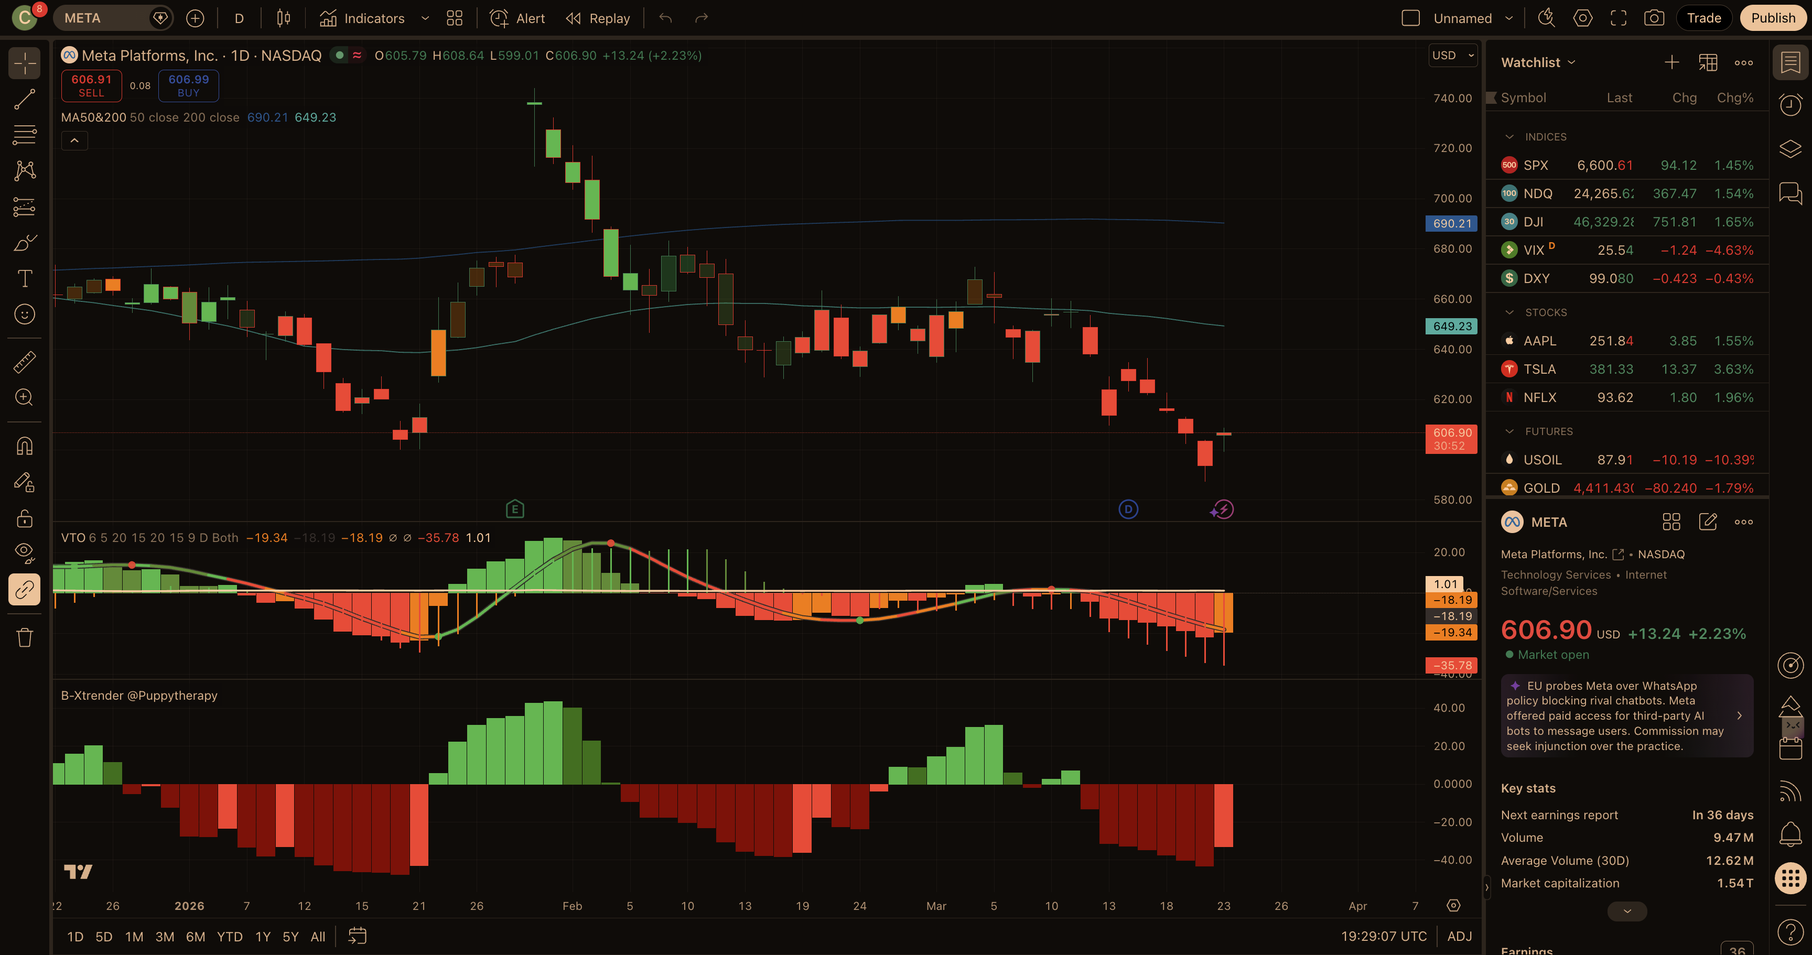
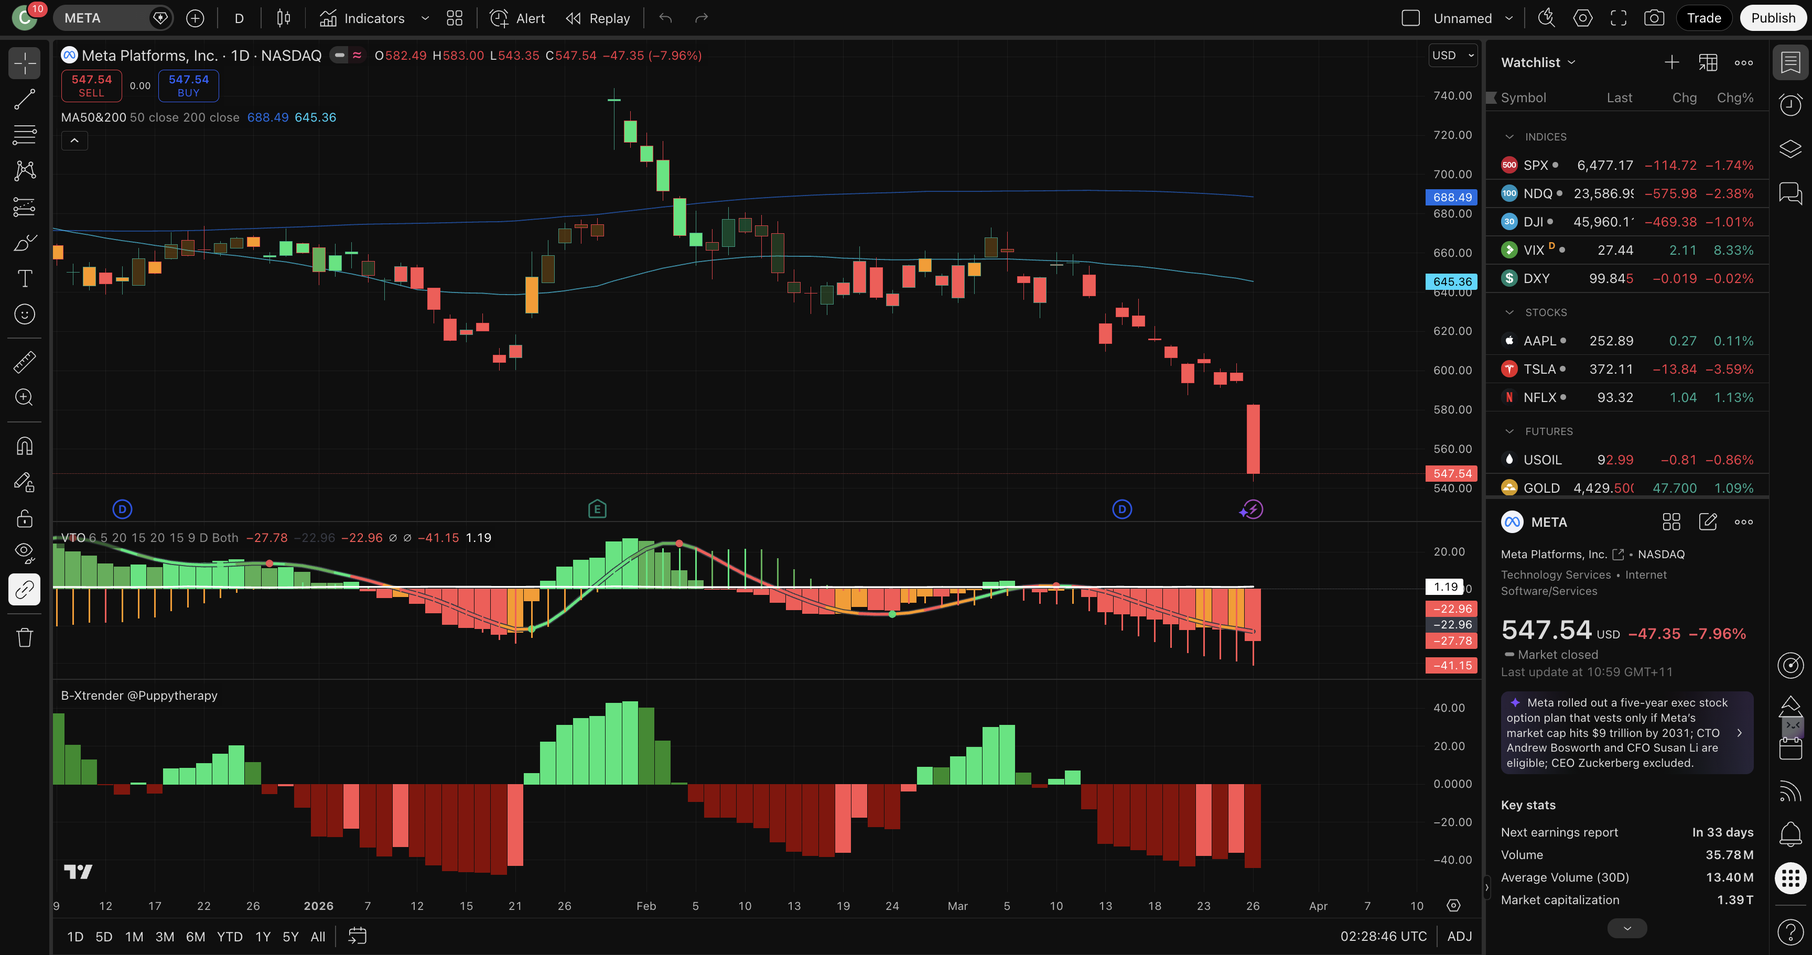
27 mar

diff --git a/strategies/bearish-call-spread/report.md b/strategies/bearish-call-spread/report.md
@@ -1,195 +1,176 @@
 # Bearish Call Spread — Current Report
-_Last updated: 2026-03-24_
+_Last updated: 2026-03-27_
 
 ---
 
 ## Market Context
 
-The S&P 500 (SPY ~$657.6) is effectively **on** its 200-day moving average (~$656.9) and **below** the 50-day (~$681.5)—a choppy repair phase rather than a clean bull trend. **VIX ~25.4** is just inside the “elevated” band (~25), which helps credit pricing but also warns that gap-and-go rallies can still occur. For bear call spreads, that combination argues for **conservative short strikes** (ideally at/above obvious MA/supply ceilings) and verification that momentum indicators are not mid-bounce.
-
----
-
-## Scan & Triage (this run)
-
-**Source:** User watchlist / scan image (21 symbols). **Live prices & MAs** for triage and scoring were pulled via Yahoo Finance (unofficial) as of this run; watchlist prints in the screenshot may differ slightly.
-
-**Universe (from image):** PM, WFC, GE, TSLA, AVGO, GOOG, GILD, ADBE, SBUX, TXN, META, NOW, AAPL, HOOD, BMY, V, NVDA, KO, CRM, AMZN, RTX.
-
-**Triage cuts (abbreviated):**
-
-- **GOOG, GILD, BMY, RTX, KO, SBUX, AAPL** — spot still **above** the 200-day MA in Yahoo history, which weakens Category A “broader downtrend” quality versus names trading under both major MAs.
-- **AVGO** — price essentially **pinned** to the 200-day; chop risk versus cleaner “below both MAs” software breakdowns.
-- **PM, GE, TXN** — **flat to slightly above** the 200-day; workable but deprioritized vs. deeper large-cap tech/media breakdowns.
-- **WFC, HOOD, TSLA, V, NVDA, AMZN, CRM** — retained for scoring funnel; **CRM** reached the numeric top tier but **failed full TradingView bearish alignment** (see below), so **META** was substituted as the third final pick.
+The S&P 500 (via SPY) closed **below its 200-day moving average** (~−1.9% vs. the 200-day), with price also under the 50-day — consistent with a **corrective / risk-off** tape rather than a clean bull trend. **VIX** was near **27.4**, i.e. **elevated** versus long-run norms (~25+), which supports richer option premium for credit spreads but also warns of gap risk. For **bear call spreads**, this mix is **more favourable than a low-VIX melt-up**: the index is not making persistent highs above the 200-day, so “everything rips” tail risk is somewhat reduced — but single-name gap risk remains, especially in mega-cap tech after large down days.
 
 ---
 
 ## Today's Top Picks
 
-### 1. META — Mega-cap breakdown; regulatory headline overhang
+### 1. UNH — Managed-care repricing; layered MA ceiling
 
-```
-Ticker: META
-Current Price: $606.49
-Sector: Communication Services / Internet Content
-Score: 70/100 (A:38 B:15 C:2 D:15 Ded:0)
+**Ticker:** UNH  
+**Current Price:** $268.05  
+**Sector:** Healthcare / Healthcare Plans  
+**Score:** 91/100 (A:37 B:25 C:14 D:15 Ded:0)
 
-Setup Summary:
-Meta has rolled over into a clear sub–50-day / sub–200-day posture after the peak-to-trough unwind from ~$740s. That layers a practical overhead “staircase” through the high-$600s into $700, which is attractive for a defined-risk call spread that stays above the nearest moving-average supply.
+**Setup Summary:**  
+UnitedHealth remains in a structural bearish sequence: first projected annual revenue contraction, elevated medical-care ratio, and ongoing headline risk (Medicare Advantage policy, DOJ scrutiny). Price is compressed under a **death cross** with the **50-day (~$294)** and **200-day (~$314)** forming a **layered ceiling**; a **$330** short call sits above both and matches a conservative “recovery fails before here” zone for a monthly credit spread.
 
-Entry Zone: $606.49
-Stop Loss: N/A (spread: max loss if spot sustains above short strike + net credit)
-Target 1: N/A | Target 2: N/A
-Risk/Reward: Credit spread — max risk = width − net credit (verify in chain)
+**Resistance Level:** **~$294–315** — 50-day and 200-day stack plus prior supply from the breakdown.
 
-Resistance Level: $649–$689 — declining 50-day (~$649) into the prior 200-day / supply zone (~$689)
+**Suggested Spread:**  
+- **Short Call Strike:** **$330** (~≤0.20 delta target — confirm in platform) — above layered MAs / policy-capped recovery path  
+- **Long Call Strike:** **$350** — ~6% wide  
+- **Target Expiry:** **May 15, 2026** (~49 DTE)  
+- **Est. Probability of Profit:** **~84%** (delta/IV proxy — verify in platform)
 
-Suggested Spread:
-  Short Call Strike: $700 (~0.15–0.22 delta — confirm) — above layered overhead into $700 supply
-  Long Call Strike:  $720 — $20-wide
-  Target Expiry:     17 Apr 2026 (~24 DTE)
-  Est. Probability of Profit: ~82% (delta proxy; confirm on platform)
+**Short Strike Level (Stop Reference):** **$330** — breach implies trade thesis failed (price recovered through major overhead).
 
-Short Strike Level (Stop Reference): $700 — 14-day outcome = spot vs this strike
+**Key Risks:**  
+- CMS / Medicare Advantage headline spikes  
+- Short-covering rallies from depressed levels  
+- Consensus price targets still well above spot (institutional dip-buying)
 
-Key Risks:
-- Mega-cap index risk-on days can produce violent cover rallies
-- Regulatory headlines (e.g., EU/WhatsApp scrutiny) can move the tape both directions
-- Still a high-quality business — this is primarily a trend + positioning trade
+**Fundamental Note:**  
+Guidance reflects a challenged margin path; investigations and sector-wide reimbursement uncertainty continue to cap the recovery narrative.
 
-Fundamental Note:
-Profitability remains strong; the bearish edge is technical (broken intermediate trend) plus headline/regulatory friction rather than balance-sheet distress.
-```
+**TradingView (NYSE:UNH):** VTO **sell / bearish momentum** on latest bars (red). B-Xtrender **bearish** (red histogram pressure). Screenshot: `assets/tradingview-UNH.png`. Chart confirm: **full**.
 
-**TradingView** (layout `z25AhAlV`, 1D, NASDAQ:META): VTO **bearish / sub-zero regime** on latest bars. B-Xtrender **bearish** (red below zero). Screenshot: `assets/tradingview-META.png`. **Chart confirm: full.**
-
-![TradingView — META — VTO + B-Xtrender](assets/tradingview-META.png)
+![UNH TradingView](assets/tradingview-UNH.png)
 
 ---
 
-### 2. ADBE — Premium reset; declining 50/200-day ceiling
+### 2. ORCL — AI-datacenter unwind; 50-day + pivot as first supply
 
-```
-Ticker: ADBE
-Current Price: $247.81
-Sector: Technology / Software — Application
-Score: 69/100 (A:38 B:15 C:6 D:15 Ded:-5)
+**Ticker:** ORCL  
+**Current Price:** $142.81  
+**Sector:** Technology / Software — Infrastructure  
+**Score:** 87/100 (A:38 B:25 C:9 D:15 Ded:0)
 
-Setup Summary:
-Adobe remains trapped under a falling 50-day (~$276) and a much higher 200-day (~$335), with a practical supply shelf into the high-$260s / $280 zone before a durable recovery is credible. That makes a short call near/above $285 a structurally intuitive ceiling for a monthly credit spread.
+**Setup Summary:**  
+Oracle is working through a **post-AI-datacenter euphoria unwind**: spot is **well below** the **200-day (~$220)** with the **declining 50-day (~$162)** and a **$170–172** pivot band as the **first meaningful supply** before higher strikes. That lines up with a **$175** short call that stays **above** visible resistance for a May monthly bear call spread.
 
-Entry Zone: $247.81
-Stop Loss: N/A (spread)
-Target 1: N/A | Target 2: N/A
-Risk/Reward: Credit spread — verify net credit vs. $15 width
+**Resistance Level:** **~$162–175** — 50-day MA plus recent pivot / supply shelf.
 
-Resistance Level: $265–$285 — local swing supply into the declining 50-day / March shelf
+**Suggested Spread:**  
+- **Short Call Strike:** **$175** (~≤0.20 delta target — confirm) — at/above first supply  
+- **Long Call Strike:** **$190** — ~8.6% wide  
+- **Target Expiry:** **May 15, 2026** (~49 DTE)  
+- **Est. Probability of Profit:** **~85%** (verify)
 
-Suggested Spread:
-  Short Call Strike: $285 (~0.18–0.22 delta — confirm)
-  Long Call Strike:  $300 — $15-wide
-  Target Expiry:     17 Apr 2026 (~24 DTE)
-  Est. Probability of Profit: ~80–83% (proxy)
+**Short Strike Level (Stop Reference):** **$175** — sustained trade above invalidates “failed bounce into supply” thesis.
 
-Short Strike Level (Stop Reference): $285
+**Key Risks:**  
+- Hyperscaler capex headlines reigniting AI-beta  
+- Large cloud backlog can stabilise sentiment  
+- Rich IV can expand sharply on upside gaps
 
-Key Risks:
-- Bounces into the declining 50-day are common in high-quality software
-- Product / AI cadence can restore narrative momentum quickly
-- Year-low zone (~$241) is nearby — bounce volatility risk (reflected in the score deduction)
+**Fundamental Note:**  
+Growth concerns are more narrative/multiple-driven than an imminent solvency issue — bear thesis is primarily **trend + resistance**, not distress.
 
-Fundamental Note:
-Cash generation remains solid, but growth has cooled and sentiment is still normalizing after the abandoned Figma deal and a slower expansion path.
-```
+**TradingView (NYSE:ORCL):** VTO **bearish / negative momentum** on latest bars. B-Xtrender **bearish** (red histogram). Screenshot: `assets/tradingview-ORCL.png`. Chart confirm: **full**.
 
-**TradingView** (NASDAQ:ADBE): VTO **bearish / negative regime**; B-Xtrender **bearish** (deep red below zero on latest bars). Screenshot: `assets/tradingview-ADBE.png`. **Chart confirm: full.**
-
-![TradingView — ADBE — VTO + B-Xtrender](assets/tradingview-ADBE.png)
+![ORCL TradingView](assets/tradingview-ORCL.png)
 
 ---
 
-### 3. NOW — Large-cap SaaS breakdown; 50-day + pivot band ceiling
+### 3. META — Gap-down through major MAs; overhead into $650–700
 
-```
-Ticker: NOW
-Current Price: $111.21
-Sector: Technology / Software — Application
-Score: 64/100 (A:37 B:15 C:0 D:12 Ded:0)
+**Ticker:** META  
+**Current Price:** $547.54  
+**Sector:** Communication Services / Internet Content  
+**Score:** 80/100 (A:38 B:25 C:3 D:14 Ded:0)
 
-Setup Summary:
-ServiceNow is a quality franchise (limits fundamental bearish points), but technically it is a clean large-cap SaaS breakdown: the first meaningful supply sits near the **50-day (~$116)** and the **$120–$126** pivot / bounce-failure band. A bear call spread can lean on that ceiling while keeping risk defined.
+**Setup Summary:**  
+Meta shows a **violent gap-down** through the **50-day (~$647)** and **200-day (~$645)** with volume confirmation — classic **trend failure** signature for a **bear call** structured **above** the gap and supply zone. A **$700** short strike clears the **$650** zone (50-day neighbourhood) and targets **low-delta** positioning for a May expiry.
 
-Entry Zone: $111.21
-Stop Loss: N/A (spread)
-Target 1: N/A | Target 2: N/A
-Risk/Reward: Credit spread — verify net credit vs. $12 width
+**Resistance Level:** **~$645–700** — broken 200/50-day region and upper supply into round-number.
 
-Resistance Level: $116–$126 — 50-day MA + January pivot / failed bounce band
+**Suggested Spread:**  
+- **Short Call Strike:** **$700** (~≤0.20 delta target — confirm) — above major broken MAs  
+- **Long Call Strike:** **$730** — ~4.3% wide  
+- **Target Expiry:** **May 15, 2026** (~49 DTE)  
+- **Est. Probability of Profit:** **~82%** (verify)
 
-Suggested Spread:
-  Short Call Strike: $128 (~0.18–0.24 delta — confirm)
-  Long Call Strike:  $140 — $12-wide
-  Target Expiry:     17 Apr 2026 (~24 DTE)
-  Est. Probability of Profit: ~84–86% (proxy)
+**Short Strike Level (Stop Reference):** **$700** — sustained strength above this zone implies the gap-down is being repaired.
 
-Short Strike Level (Stop Reference): $128
+**Key Risks:**  
+- Mega-cap **index risk-on** sessions can lift all names  
+- Regulatory headlines can move the name both ways  
+- Still profitable — **quality floor** can attract long-term buyers on dips
 
-Key Risks:
-- Broad software / AI-beta rallies can lift the group
-- Enterprise renewals and deal cadence can stabilize sentiment
-- Compressed multiples can mean faster snapbacks if rates fall
-```
+**Fundamental Note:**  
+Profitability remains strong; the trade thesis is **price trend + overhead supply**, not a broken business model.
 
-**TradingView** (NYSE:NOW): B-Xtrender **bearish flip** (red on the latest bar / sub-zero). VTO pane still shows **mixed momentum** (fading green / not a clean isolated red sell dot on the right edge). Screenshot: `assets/tradingview-NOW.png`. **Chart confirm: partial** (B-Xtrender yes; VTO not a clean sell-dot confirmation).
+**TradingView (NASDAQ:META):** VTO **bearish momentum** (negative / red). B-Xtrender **bearish** (red histogram). Screenshot: `assets/tradingview-META.png`. Chart confirm: **full**.
 
-![TradingView — NOW — VTO + B-Xtrender](assets/tradingview-NOW.png)
+![META TradingView](assets/tradingview-META.png)
+
+---
+
+## Triage (quick screen)
+
+**Cut / deprioritised (examples):** **MU** — extreme strength vs 200-day (momentum leader; poor fit for “fade the recovery”); **AAPL, KO, PEP, WMT, GILD, NEM, RTX, SBUX** — trading at or **above** the 200-day (recovery skew vs bearish credit); **NVDA, TSLA** — headline/gamma tail risk for short-dated calls. **QCOM** scored well on fundamentals, but **TradingView B-Xtrender** showed **bullish** (green) territory on the **latest bar** — **substituted by META** to reach **three fully chart-confirmed** names.
 
 ---
 
 ## Open Trades
+
 _Recommendations from the last 14 days with no outcome recorded yet._
 
 | Date | Ticker | Entry Price | Short Strike | Setup Summary |
 |---|---|---|---|---|
-| 2026-03-17 | UNH | $285.78 | $300 – 50-day MA (~$299.50) / death cross ceiling… | Short $300/$315 call spread \| Apr 2026 (~31 DTE) \| ~85% PoP \| Death cross confirmed; first projected annual revenue cont… |
-| 2026-03-17 | JPM | $286.26 | $310 – 50-day MA (~$312) / broken 200-day MA ($297.55) resis… | Short $310/$325 call spread \| Apr 2026 (~31 DTE) \| ~81% PoP \| Broken below 200-day MA ($297.55) — now resistance; 50-day… |
-| 2026-03-17 | BA | $213.88 | $240 – 50-day MA ($240.20) / prior supply zone from February… | Short $240/$255 call spread \| Apr 2026 (~31 DTE) \| ~87% PoP \| Below both 50-day ($240.20) and 200-day ($219.90) MAs; MFI… |
-| 2026-03-19 | UNH | $283.70 | $330 – above 200-day MA ($314.48) / prior breakdown ceiling… | Short $330/$345 call spread \| Apr 2026 (~36 DTE) \| ~83% PoP \| Managed-care margin pressure, DOJ scrutiny, and a layered … |
-| 2026-03-19 | TSLA | $393.22 | $450 – above 50-day MA ($417.61) / failed-bounce supply zone… | Short $450/$475 call spread \| Apr 2026 (~36 DTE) \| ~82% PoP \| Delivery-growth expectations keep getting cut, IV remains … |
-| 2026-03-19 | CVS | $73.07 | $83 – above 50-day MA ($77.91) / recent 60-day high zone… | Short $83/$90 call spread \| Apr 2026 (~36 DTE) \| ~77% PoP \| Medicare Advantage rate pressure keeps the sector under stre… |
-| 2026-03-21 | ADBE | $248.15 | $285 – above 50-day MA (~$276) / March supply shelf… | Short $285/$300 call spread \| Apr 2026 (~30 DTE) \| ~82% PoP \| Post-Figma trade narrative still caps multiples; price tra… |
-| 2026-03-21 | ORCL | $149.68 | $175 – below 200-day MA (~$220) / pre-breakdown pivot zone… | Short $175/$190 call spread \| Apr 2026 (~30 DTE) \| ~84% PoP \| AI-datacenter euphoria unwind leaves ORCL below both major… |
-| 2026-03-21 | NOW | $110.38 | $125 – 50-day MA (~$116) + recent bounce failure zone… | Short $125/$135 call spread \| Apr 2026 (~30 DTE) \| ~86% PoP \| Workflow automation demand is fine, but the chart is a cle… |
-| 2026-03-23 | ORCL | $149.68 | $175 – 50-day MA (~$162) / $170–172 pivot below 200-day (~$2… | Short $175/$190 call spread \| Apr 17 2026 (~25 DTE) \| ~82–84% PoP est \| Price ~32% below 200-day; first durable supply i… |
-| 2026-03-23 | ADBE | $248.15 | $285 – 50-day MA (~$277) / March supply shelf into $275–$290… | Short $285/$300 call spread \| Apr 17 2026 (~25 DTE) \| ~80–83% PoP est \| Trapped under falling 50/200-day MAs; nearest ha… |
-| 2026-03-23 | NOW | $110.38 | $128 – above 50-day MA (~$117) / $120–126 January pivot band… | Short $128/$140 call spread \| Apr 17 2026 (~25 DTE) \| ~84–86% PoP est \| Large-cap SaaS breakdown: lower highs with first… |
-| 2026-03-24 | META | $606.49 | $700 – above 50-day MA (~$649) / supply into prior 200-day z… | Short $700/$720 call spread \| Apr 17 2026 (~24 DTE) \| ~82% PoP est \| Well below declining 50- and 200-day MAs; layered o… |
-| 2026-03-24 | ADBE | $247.81 | $285 – 50-day MA (~$276) / March supply shelf into high-$260… | Short $285/$300 call spread \| Apr 17 2026 (~24 DTE) \| ~80–83% PoP est \| Trapped under falling 50/200-day MAs; Apr17 285c… |
-| 2026-03-24 | NOW | $111.21 | $128 – above 50-day MA (~$116) / $120–126 January pivot band… | Short $128/$140 call spread \| Apr 17 2026 (~24 DTE) \| ~84–86% PoP est \| Large-cap SaaS breakdown: first durable supply a… |
+| 2026-03-17 | UNH | $285.78 | $300 – 50-day MA (~$299.50) / death cross ceiling | Short $300/$315 call spread / Apr 2026 (~31 DTE) / ~85% PoP / Death cross confirmed; first projected annual revenue cont… |
+| 2026-03-17 | JPM | $286.26 | $310 – 50-day MA (~$312) / broken 200-day MA ($297.55) resistance cluster | Short $310/$325 call spread / Apr 2026 (~31 DTE) / ~81% PoP / Broken below 200-day MA ($297.55) — now resistance; 50-day… |
+| 2026-03-17 | BA | $213.88 | $240 – 50-day MA ($240.20) / prior supply zone from February breakdown | Short $240/$255 call spread / Apr 2026 (~31 DTE) / ~87% PoP / Below both 50-day ($240.20) and 200-day ($219.90) MAs; MFI… |
+| 2026-03-19 | UNH | $283.70 | $330 – above 200-day MA ($314.48) / prior breakdown ceiling | Short $330/$345 call spread / Apr 2026 (~36 DTE) / ~83% PoP / Managed-care margin pressure, DOJ scrutiny, and a layered … |
+| 2026-03-19 | TSLA | $393.22 | $450 – above 50-day MA ($417.61) / failed-bounce supply zone | Short $450/$475 call spread / Apr 2026 (~36 DTE) / ~82% PoP / Delivery-growth expectations keep getting cut, IV remains … |
+| 2026-03-19 | CVS | $73.07 | $83 – above 50-day MA ($77.91) / recent 60-day high zone | Short $83/$90 call spread / Apr 2026 (~36 DTE) / ~77% PoP / Medicare Advantage rate pressure keeps the sector under stre… |
+| 2026-03-21 | ADBE | $248.15 | $285 – above 50-day MA (~$276) / March supply shelf | Short $285/$300 call spread / Apr 2026 (~30 DTE) / ~82% PoP / Post-Figma trade narrative still caps multiples; price tra… |
+| 2026-03-21 | ORCL | $149.68 | $175 – below 200-day MA (~$220) / pre-breakdown pivot zone | Short $175/$190 call spread / Apr 2026 (~30 DTE) / ~84% PoP / AI-datacenter euphoria unwind leaves ORCL below both major… |
+| 2026-03-21 | NOW | $110.38 | $125 – 50-day MA (~$116) + recent bounce failure zone | Short $125/$135 call spread / Apr 2026 (~30 DTE) / ~86% PoP / Workflow automation demand is fine, but the chart is a cle… |
+| 2026-03-23 | ORCL | $149.68 | $175 – 50-day MA (~$162) / $170–172 pivot below 200-day (~$219) | Short $175/$190 call spread / Apr 17 2026 (~25 DTE) / ~82–84% PoP est / Price ~32% below 200-day; first durable supply i… |
+| 2026-03-23 | ADBE | $248.15 | $285 – 50-day MA (~$277) / March supply shelf into $275–$290 | Short $285/$300 call spread / Apr 17 2026 (~25 DTE) / ~80–83% PoP est / Trapped under falling 50/200-day MAs; nearest ha… |
+| 2026-03-23 | NOW | $110.38 | $128 – above 50-day MA (~$117) / $120–126 January pivot band | Short $128/$140 call spread / Apr 17 2026 (~25 DTE) / ~84–86% PoP est / Large-cap SaaS breakdown: lower highs with first… |
+| 2026-03-24 | META | $606.49 | $700 – above 50-day MA (~$649) / supply into prior 200-day zone (~$689) | Short $700/$720 call spread / Apr 17 2026 (~24 DTE) / ~82% PoP est / Well below declining 50- and 200-day MAs; layered o… |
+| 2026-03-24 | ADBE | $247.81 | $285 – 50-day MA (~$276) / March supply shelf into high-$260s–$280 | Short $285/$300 call spread / Apr 17 2026 (~24 DTE) / ~80–83% PoP est / Trapped under falling 50/200-day MAs; Apr17 285c… |
+| 2026-03-24 | NOW | $111.21 | $128 – above 50-day MA (~$116) / $120–126 January pivot band | Short $128/$140 call spread / Apr 17 2026 (~24 DTE) / ~84–86% PoP est / Large-cap SaaS breakdown: first durable supply a… |
+| 2026-03-27 | UNH | $268.05 | $330 – above 200-day MA (~$314) / 50-day ceiling (~$294) | Short $330/$350 call spread / May 15 2026 (~49 DTE) / ~84% PoP est / Death cross; layered MA ceiling; Medicare/DOJ headl… |
+| 2026-03-27 | ORCL | $142.81 | $175 – 50-day MA (~$162) / $170–172 pivot below 200-day (~$220) | Short $175/$190 call spread / May 15 2026 (~49 DTE) / ~85% PoP est / Post-AI-datacenter unwind; first durable supply at … |
+| 2026-03-27 | META | $547.54 | $700 – above 50-day MA (~$647) / gap & supply into $600–680 zone | Short $700/$730 call spread / May 15 2026 (~49 DTE) / ~82% PoP est / Large gap-down through major MAs; layered overhead … |
 
 ---
 
 ## Performance Summary
-_All checked trades (outcome recorded at 14-day mark; WIN = spot remained **below** short strike reference)._
+
+_All checked trades (outcome recorded at 14-day mark)._
 
 | Date | Ticker | Entry Price | Price at 14 Days | % Move | Short Strike | Result |
 |---|---|---|---|---|---|---|
-| 2026-03-07 | ABT | $108.66 | $105.46 | -2.95% | $120 | WIN |
-| 2026-03-07 | TSLA | $394.68 | $367.96 | -6.77% | $480 | WIN |
-| 2026-03-07 | KKR | $90.99 | $90.0 | -1.09% | $105 | WIN |
-| 2026-03-07 | UNH | $284.75 | $275.59 | -3.22% | $315 | WIN |
+| 2026-03-07 | ABT | $108.66 | $105.46 | −2.95% | $120 | WIN |
+| 2026-03-07 | TSLA | $394.68 | $367.96 | −6.77% | $480 | WIN |
+| 2026-03-07 | KKR | $90.99 | $90.00 | −1.09% | $105 | WIN |
+| 2026-03-07 | UNH | $284.75 | $275.59 | −3.22% | $315 | WIN |
 | 2026-03-07 | MS | $160.47 | $161.47 | 0.62% | $180 | WIN |
-| 2026-03-07 | DIS | $101.66 | $99.51 | -2.12% | $115 | WIN |
-| 2026-03-11 | QCOM | $134.55 | $129.9 | -3.46% | $155 | WIN |
-| 2026-03-11 | JPM | $286.65 | $286.56 | -0.03% | $310 | WIN |
-| 2026-03-11 | CVS | $76.46 | $71.48 | -6.51% | $83 | WIN |
+| 2026-03-07 | DIS | $101.66 | $99.51 | −2.12% | $115 | WIN |
+| 2026-03-11 | QCOM | $134.55 | $129.90 | −3.46% | $155 | WIN |
+| 2026-03-11 | JPM | $286.65 | $286.56 | −0.03% | $310 | WIN |
+| 2026-03-11 | CVS | $76.46 | $71.48 | −6.51% | $83 | WIN |
 
 ### Aggregate Stats
-- **Total checked:** 9
-- **Win rate (stock below short strike at 14 days):** 100%
-- **Average stock % move (all closed):** -2.84%
-- **Average stock % move on wins:** -2.84%
+
+- **Total checked:** 9  
+- **Win rate (stock below short strike at 14 days):** 100%  
+- **Average stock % move on wins:** −2.84%  
+- **Average stock % move on losses:** _n/a (no losses in sample)_  
 
 ---
 
-_Disclaimer: Educational / research workflow only. Options involve risk; verify strikes, credits, margin, and probabilities in your broker platform. Past outcomes do not predict future results._
+## Chart substitution note
+
+**QCOM** was on the numeric shortlist after scoring, but **did not** meet **full** bearish **B-Xtrender** confirmation (latest bar **green / bullish** in the screenshot review). **META** was used as the **third** pick so all three final recommendations have **full** VTO + B-Xtrender alignment per the **read-tradingview-chart** skill.
